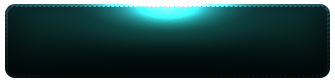
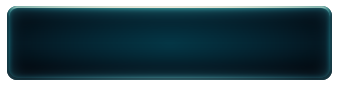
More GUI added

diff --git a/GUI.py b/GUI.py
@@ -10,7 +10,7 @@ def setUpGui(world):
 
     # Loading all GUI textures via egg files
     #---------------------------------------
-    buttonModel = loader.loadModel('models/gui/button2/simple_button_maps.egg')
+    buttonModel = loader.loadModel('models/gui/buttons/simple_button_maps.egg')
     buttonMaps = (buttonModel.find('**/normal'),buttonModel.find('**/active'),
                   buttonModel.find('**/normal'),buttonModel.find('**/disabled'))
 
@@ -18,6 +18,7 @@ def setUpGui(world):
     slotMaps = (slotModel.find('**/normal'),slotModel.find('**/active'),
                   slotModel.find('**/normal'),slotModel.find('**/disabled'))
 
+    world.infoDialogPanelMap = loader.loadModel('models/gui/panels/infodialogpanel_maps.egg').find('**/infodialogpanel')
 
     # Constant visible gui elements
     #------------------------------
@@ -41,6 +42,9 @@ def setUpGui(world):
     # All static gui elements for the planet info screen
     #---------------------------------------------------
     infoPanelMap = loader.loadModel('models/gui/panels/planetinfopanel_maps.egg').find('**/planetinfopanel')
+    problemPanelMap = loader.loadModel('models/gui/panels/planetproblempanel_maps.egg').find('**/planetproblempanel')
+    
+    
     
     world.PlanetInfoPanel = DirectFrame(
         pos=(-0.8, 0, 0), frameColor=(0.2, 0.2, 0.22, 0), frameSize=(-0.9, 1.1, -0.65, 0.65),
@@ -49,7 +53,7 @@ def setUpGui(world):
 
     world.PlanetInfoTitle = DirectLabel(text='', pos=(0.1, 0, 0.5), 
         text_fg=(1,1,1,1), frameColor=(0,0,0,0), parent = world.PlanetInfoPanel, 
-        text_align=TextNode.ACenter, text_scale = 0.13)
+        text_align=TextNode.ACenter, text_scale = 0.12)
 
     world.PlanetInfoAttributesTable = DirectLabel(text='', pos=(-0.85, 0, 0.35), 
         text_fg=(1,1,1,1), frameColor=(0,0,0,0), parent = world.PlanetInfoPanel, 
@@ -88,8 +92,9 @@ def setUpGui(world):
         text_scale=0.15, text_pos=(0, -0.03), text_fg=(1,1,1,1), geom_scale=(0.5,0,1.2), geom=(buttonMaps),
         command=world.togglePlanetBuildMode, extraArgs=[True], parent=world.PlanetInfoPanel)
 
-    world.PlanetInfoProblemPanel = DirectFrame(frameColor=(0.2, 0.2, 0.22, 0.9),
-        frameSize=(0, 0.4, -1.3, 0),pos=(2.25, 0, 0.65), parent=world.PlanetInfoPanel)
+    world.PlanetInfoProblemPanel = DirectFrame(frameColor=(0.2, 0.2, 0.22, 0),
+        frameSize=(0, 0, 0, 0),pos=(2.33, 0, 0.16), parent=world.PlanetInfoPanel,
+        geom=problemPanelMap, geom_scale=(0.7,0,0.7), geom_pos=(0,0,0), enableEdit=1)
 
     # All static gui elements for the planet build panel
     #---------------------------------------------------

diff --git a/NoC.py b/NoC.py
@@ -158,7 +158,7 @@ class World(DirectObject):
     def followCam(self, mode, task):
         pos = self.selectedObject.getPos(base.render)
         if mode=='info':
-            camera.setPos(pos[0]-self.followObjectScale * 1.3, 
+            camera.setPos(pos[0]-self.followObjectScale * 1.25, 
                          pos[1]-self.followObjectScale * 4, 
                          self.followObjectScale * 4)
         if mode=='build':
@@ -187,8 +187,8 @@ class World(DirectObject):
 
     def createProblemDialog(self, problemText):
         self.ProblemDialog = OkDialog(
-            dialogName="OkDialog", text=problemText, command=self.cleanupProblemDialog, 
-            frameColor=(0.15,0.15,0.15,0.8), text_fg=(1,1,1,1))
+            dialogName="OkDialog", text=problemText, text_pos=(0,0.07), command=self.cleanupProblemDialog, midPad=(-0.15),
+            frameColor=(0,0,0,0), text_fg=(1,1,1,1), text_align=TextNode.ACenter, geom=self.infoDialogPanelMap)
 
     def cleanupProblemDialog(self, args):
         self.ProblemDialog.cleanup()
@@ -209,7 +209,7 @@ class World(DirectObject):
             self.clearPlanetInfo()
             self.fillPlanetInfo()
             self.checkForInfoViewButtons()
-            zoomInterval = Sequence(camera.posInterval(0.3, Point3(pos[0]-self.followObjectScale * 1.3,
+            zoomInterval = Sequence(camera.posInterval(0.3, Point3(pos[0]-self.followObjectScale * 1.25,
                                                           pos[1]-self.followObjectScale * 4, 
                                                           self.followObjectScale * 4), camPos), Func(self.PlanetInfoPanel.show))
             zoomInterval.start()
@@ -334,7 +334,7 @@ class World(DirectObject):
             self.fillPlanetInfo()
             taskMgr.remove('quickinfoTask')
             taskMgr.remove('buildcamTask')
-            zoomInterval = Sequence(camera.posHprInterval(0.3, Point3(pos[0]-scale * 1.3, pos[1]-scale * 4, scale * 4), Vec3(0,-45,0), camPos),
+            zoomInterval = Sequence(camera.posHprInterval(0.3, Point3(pos[0]-scale * 1.25, pos[1]-scale * 4, scale * 4), Vec3(0,-45,0), camPos),
                                     Func(self.PlanetInfoPanel.show))
             zoomInterval.start()
             taskMgr.add(self.followCam, 'infocamTask', extraArgs=['info'], appendTask=True)
